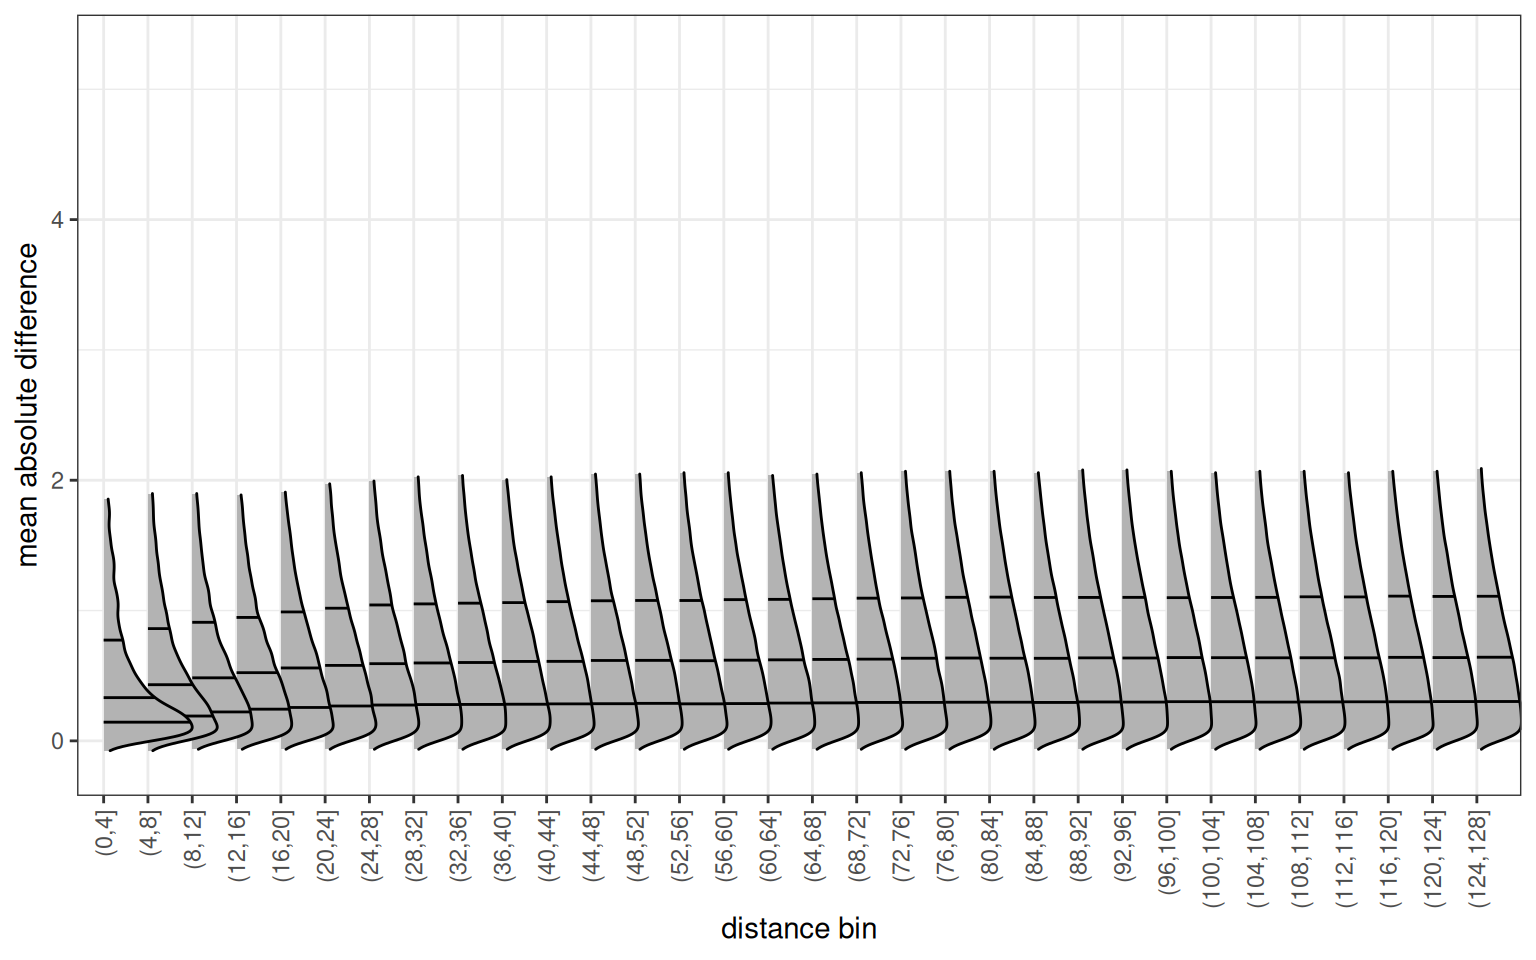
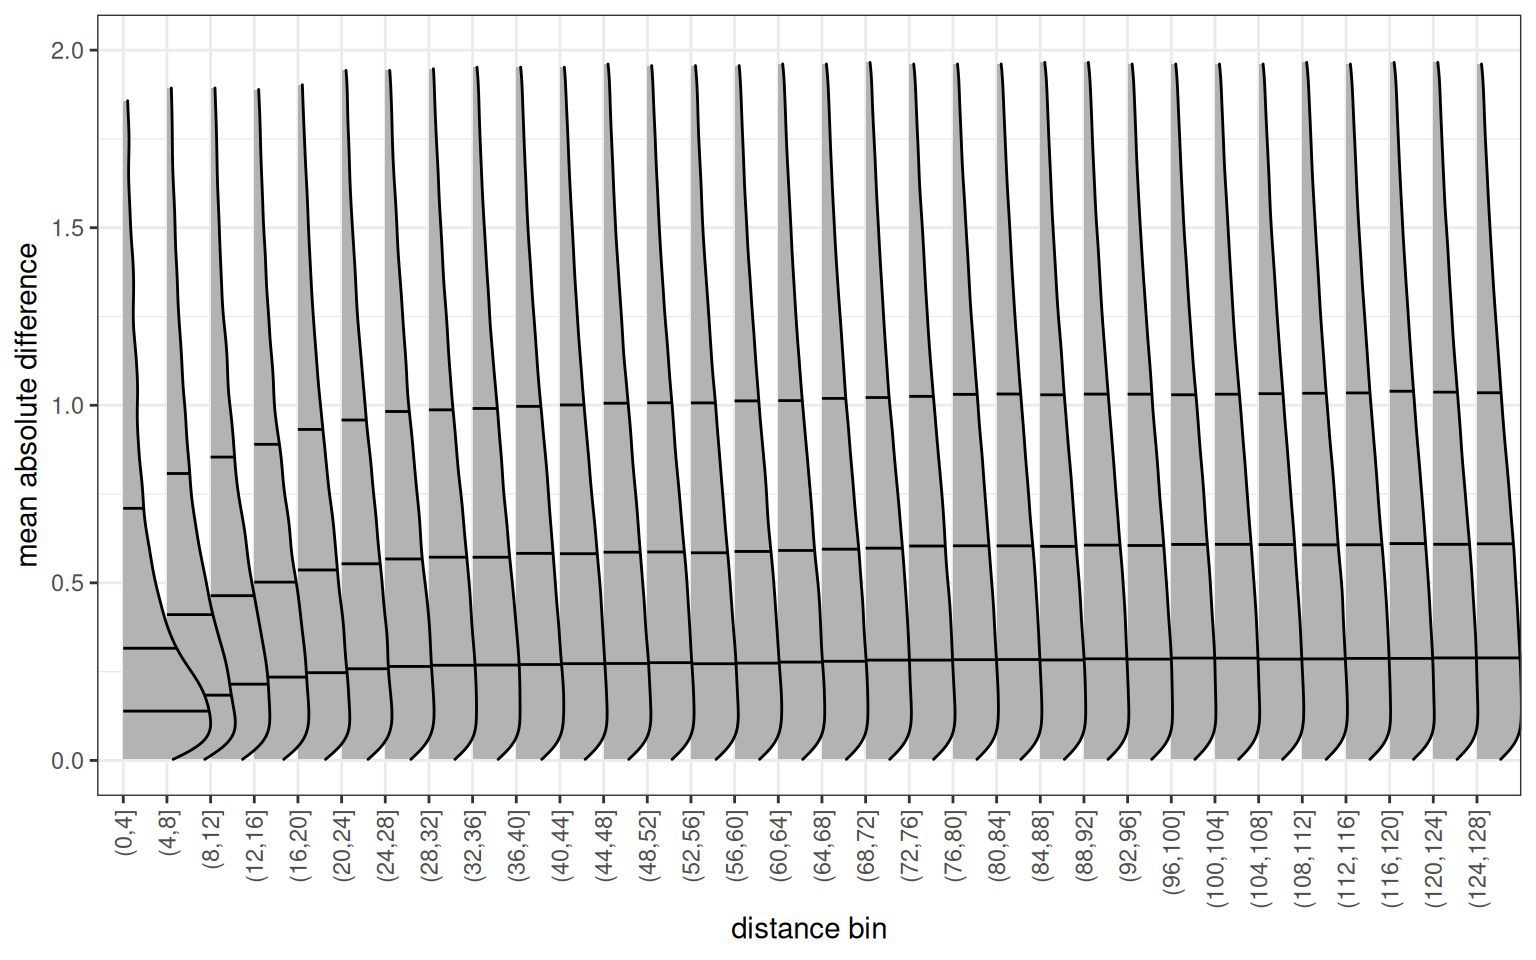
variograms: quarto->md corrections*
- equations required double backslash
- section anchors require a newline

diff --git a/content/tutorials/spatial_variograms/index.md b/content/tutorials/spatial_variograms/index.md
@@ -181,7 +181,9 @@ I mostly skip step 1 (**parameter choice**) from the list above, because it is a
 Ensure that your data is accurate, [exploratory data analysis](https://r4ds.had.co.nz/exploratory-data-analysis.html), evaluation and feedback with meetings and stakeholders - these sorts of things.
 The parameter of interest does not have to be a raw measurement, but can be the end of a long data analysis and modeling pipeline (more on this in <a href="#sec-detrending" class="quarto-xref">Section 3.1</a>).
 
-## <a href="sec-crossdifference"></a> Cross-Difference
+<a href="sec-crossdifference"></a>
+
+## Cross-Difference
 
 The following one-line functions are a major game-changer for large data sets, in particular the `self_difference()`.
 Their purpose is to compute the difference of all elements of one vector to each other, in matrix form.
@@ -212,7 +214,9 @@ lower_triangle <- function (mat) mat[lower.tri(mat)]
 This was just an opportunistic excourse to step 2 **cross calculation** from the roadmap.
 In fact, we are not yet finished preparing our test data set (for which these functions are useful).
 
-## <a href="sec-smoothing"></a> Simple Smoothing
+<a href="sec-smoothing"></a>
+
+## Simple Smoothing
 
 Just so that we can optionally incorporate **some Tobler spirit**: a smoother.
 2D smoothing, or "convolution with a 2D Gaussian", as the pro's call it, is what creates relation among adjacent points.
@@ -266,7 +270,7 @@ alt="Figure 2: The data, smoothed with a 2D Gaussian kernel. The edges are dark
 Nice and smooth.
 Feel free to draw a sunset by adjusting `a` and removing the groups.
 
-Note that I chose `s` here as a variable name for the smoothed `z`, which should not be confused with the \(s\) often used elsewhere to descripe the position vector of locations.
+Note that I chose `s` here as a variable name for the smoothed `z`, which should not be confused with the \\(s\\) often used elsewhere to descripe the position vector of locations.
 
 {{% callout note %}}
 
@@ -276,9 +280,13 @@ As will become clear in the end, the **assumption of Gaussian spatial interdepen
 
 {{% /callout %}}
 
-# <a href="sec-variograms"></a> Variograms
+<a href="sec-variograms"></a>
 
-## <a href="sec-detrending"></a> Debatable "De-Trending"
+# Variograms
+
+<a href="sec-detrending"></a>
+
+## Debatable "De-Trending"
 
 For good reasons, which I hope to make clear below, variogram functions such as `gstat::variogram()` provide the option of de-trending the data.
 This is demonstrated in the [examples documented with the function](https://www.rdocumentation.org/packages/gstat/versions/2.1-2/topics/variogram); one available parameter (`trend.beta`) provides the option of incorporating pre-calculated spatial regressions.
@@ -335,7 +343,9 @@ At any rate, I would recommend to **store the detrended linear effects for later
 
 {{% /callout %}}
 
-## <a href="sec-binning"></a> Beautiful Binning
+<a href="sec-binning"></a>
+
+## Beautiful Binning
 
 By now, we have prepared several variants of our simulated outcome variables (`z` -\> `s` -\> `d`), which is more than enough do demonstrate step 1.
 The next obvious step is to **cross-calculate distances and differences**, and that is quickly done with the base-R machinery.
@@ -378,9 +388,13 @@ dist_diff %>%
     quantile_lines = TRUE, quantiles = 4,
     scale = 2.0, bandwidth = 0.05) +
   labs(x = "mean absolute difference", y = "distance bin") +
+  xlim(0, 2) +
   theme_bw() + coord_flip() +
-  theme(axis.text.x = element_text(angle = 90, vjust = 0.5, hjust=1))
+  theme(axis.text.x = element_text(angle = 90, vjust = 0.5, hjust=1)) 
 ```
+
+    Warning: Removed 265464 rows containing non-finite outside the scale range
+    (`stat_density_ridges()`).
 
 <img
 src="spatial_variograms.markdown_strict_files/figure-markdown_strict/fig-difference-distance-ridges-1.png"
@@ -467,17 +481,17 @@ The answer lies somewhere between (among?) the very exact maths hidden in the li
 
 And, anyways, if the assumption holds, we get a neat formula for semivariance ("Method-of-Moments Estimator" according to Cressie 1993, 69, eqn. 2.4.2), which goes back to Matheron (1962).
 
-We define the **semivariance** \(\gamma\):
+We define the **semivariance** \\(\gamma\\):
 
-\(\gamma = \frac{1}{2N} \sum\limits_{N} \left(z_j - z_i\right)^2\)
+\\(\gamma = \frac{1}{2N} \sum\limits_{N} \left(z_j - z_i\right)^2\\)
 
-Herein, \(N\) is the number of observation pairs \(\{i, j\}\); those are usually grouped (binned) so to quantify variances at different distances \(\gamma\left(h\right)\) (with \(h\) the "lag vector magnitude", i.e. distance group).
+Herein, \\(N\\) is the number of observation pairs \\(\{i, j\}\\); those are usually grouped (binned) so to quantify variances at different distances \\(\gamma\left(h\right)\\) (with \\(h\\) the "lag vector magnitude", i.e. distance group).
 
-Semivariance \(\gamma\) should better be remembered as **half mean square difference** (HMSD).
+Semivariance \\(\gamma\\) should better be remembered as **half mean square difference** (HMSD).
 
 There is at least one more option worth attempting: instead of the square-form semivariance above, just calculate **mean absolute difference** (MAD) as follows.
 
-\[ \langle dw\rangle = \frac{1}{N} \sum\limits_{i,j} \left| z_j - z_i\right| \]
+\\[ \langle dw\rangle = \frac{1}{N} \sum\limits_{i,j} \left| z_j - z_i\right| \\]
 
 We will calculate all three parameters for demonstration:
 variance, semivariance, and mean absolute difference.
@@ -565,7 +579,9 @@ A plot of the bin-wise semivariance (or other difference measures) against dista
 Good to have.
 Now let's get started.
 
-# <a href="sec-model-regression"></a> Model Regression
+<a href="sec-model-regression"></a>
+
+# Model Regression
 
 ## Fitting Functions
 
@@ -683,11 +699,13 @@ Observations:
 
 -   The regression fits the data more or less well, quantified by the mean square error (`mse`).
 -   Optimizer did converge (`convergence 0`, [see "convergence" here](https://stat.ethz.ch/R-manual/R-devel/library/stats/html/optim.html)), which should not be overrated (the regression might still be irrelevant).
--   Parameters can be measured, in this case intercept (\(0.43\)) and slope (\(4\times 10^{-4}\)).
+-   Parameters can be measured, in this case intercept (\\(0.43\\)) and slope (\\(4\times 10^{-4}\\)).
 
 We can do better, of course.
 
-## <a href="sec-gauss"></a> Beloved Bellcurve
+<a href="sec-gauss"></a>
+
+## Beloved Bellcurve
 
 Quite a popular choice is the **Gaussian**.
 There is a suitable "parametric extension" [on wikipedia](https://en.wikipedia.org/wiki/Gaussian_function).
@@ -908,38 +926,40 @@ fit_variogram <- function(
 }
 ```
 
-## <a href="sec-matern"></a> Matérn Machinery
+<a href="sec-matern"></a>
+
+## Matérn Machinery
 
 There is at least one step further from Gauss.
 Let's mimic what the pro's do!
 
 What follows is an exact quote [(source)](https://pbs-assess.github.io/sdmTMB/articles/model-description.html#gaussian-random-fields).
-Note that the \(s\) here stants for a position vector, and *not* the smoothed `z`.
+Note that the \\(s\\) here stants for a position vector, and *not* the smoothed `z`.
 
 `<quote>`
 
-The Matérn defines the covariance \(\Phi\left( s_j, s_k\right)\) between spatial locations \(s_j\) and \(s_k\) as
+The Matérn defines the covariance \\(\Phi\left( s_j, s_k\right)\\) between spatial locations \\(s_j\\) and \\(s_k\\) as
 
-\[\Phi\left( s_j, s_k\right) = \tau^2 / \Gamma\left(\nu\right) 2^{\nu -1} \left(\kappa d_{jk}\right)^\nu K_\nu\left(\kappa d_{jk}\right)\]
+\\[\Phi\left( s_j, s_k\right) = \tau^2 / \Gamma\left(\nu\right) 2^{\nu -1} \left(\kappa d_{jk}\right)^\nu K_\nu\left(\kappa d_{jk}\right)\\]
 <!-- Φ(sj,sk)=τ2/Γ(ν)2ν−1(κdjk)νKν(κdjk),-->
 
-where \(\tau^2\) controls the spatial variance,
-\(\nu\) controls the smoothness,
-\(\Gamma\) represents the Gamma function,
-\(d_{jk}\) represents the distance between locations \(s_j\) and \(s_k\),
-\(K_\nu\) represents the modified Bessel function of the second kind,
-and \(\kappa\) represents the decorrelation rate.
-The parameter \(\nu\) is set to \(1\) to take advantage of the Stochastic Partial Differential Equation (SPDE) approximation to the GRF
+where \\(\tau^2\\) controls the spatial variance,
+\\(\nu\\) controls the smoothness,
+\\(\Gamma\\) represents the Gamma function,
+\\(d_{jk}\\) represents the distance between locations \\(s_j\\) and \\(s_k\\),
+\\(K_\nu\\) represents the modified Bessel function of the second kind,
+and \\(\kappa\\) represents the decorrelation rate.
+The parameter \\(\nu\\) is set to \\(1\\) to take advantage of the Stochastic Partial Differential Equation (SPDE) approximation to the GRF
 to greatly increase computational efficiency (Lindgren, Rue, and Lindström 2011).
-Internally, the parameters \(\kappa\) and \(\tau\) are converted to range and marginal standard deviation \(\sigma\) as
-\[range=\frac{8}{\kappa}\]
+Internally, the parameters \\(\kappa\\) and \\(\tau\\) are converted to range and marginal standard deviation \\(\sigma\\) as
+\\[range=\frac{8}{\kappa}\\]
 and
-\[\sigma=\left(4\pi e^{2log(\tau )+2log(\kappa)}\right)^{-\frac{1}{2}}\]
+\\[\sigma=\left(4\pi e^{2log(\tau )+2log(\kappa)}\right)^{-\frac{1}{2}}\\]
 
 `</quote>`
 
 This is just to confuse you.
-I found the \(\tau\)/\(\kappa\)/\(\sigma\)-parametrization to be less intuitive and not fitting our geoscience jargon, but the Bessel and Gamma were appropriate; so here a slightly modified parametrization.
+I found the \\(\tau\\)/\\(\kappa\\)/\\(\sigma\\)-parametrization to be less intuitive and not fitting our geoscience jargon, but the Bessel and Gamma were appropriate; so here a slightly modified parametrization.
 
 ``` r
 matern_function <- function(d, parameters) {
@@ -961,7 +981,7 @@ matern_function <- function(d, parameters) {
 
 I initially had trouble fitting this function, because I simplified (leaving out `nugget` and `nu`); the version above is quite flexible to fit our variogram.
 Note that the function is not defined at zero, which is why I filter `NA`.
-Sigma (\(\sigma\)) is related to the turning point of the Matérn function.
+Sigma (\\(\sigma\\)) is related to the turning point of the Matérn function.
 The Matérn implementation does not allow decreasing or oscillating semivariance (sometimes seen in real data), but on the other hand decreasing semivariance would griefly violate Tobler's observation.
 
 Any regression function demands a specific plot function:
@@ -1040,7 +1060,7 @@ alt="Figure 11: Variogram of all the data, with a Matérn fit. Warning: the y-a
 <figcaption>Variogram of all the data, with a Matérn fit. Warning: the y-axis display range is limited.</figcaption><br>
 
 Note the sensible choice of starting values and boundaries.
-Again, I indicated the \(\sigma\) range.
+Again, I indicated the \\(\sigma\\) range.
 
 See the considerable non-zero nugget?
 Let us explore where it comes from!
@@ -1109,13 +1129,13 @@ alt="Figure 13: Variogram of the sub-data in the b == 1 category." />
 
 `<figcaption>Variogram of the sub-data in the`b == 1category.</figcaption><br>
 
-The \(\sigma\)-range of the full data set with two different categories mixed is \(16.8\).
-If we only include one of the categories, making the data points more similar, ranges are \(17.4\) and \(13.9\).
+The \\(\sigma\\)-range of the full data set with two different categories mixed is \\(16.8\\).
+If we only include one of the categories, making the data points more similar, ranges are \\(17.4\\) and \\(13.9\\).
 Longer range would mean that distant points are more similar.
 
 The variance itself is also determined by the magnitude of values:
 on the `b==1` subset, we added to the measured parameter.
-Consequently, we see the `scale = sill-nugget` increase from \(0.13\) to \(0.19\).
+Consequently, we see the `scale = sill-nugget` increase from \\(0.13\\) to \\(0.19\\).
 
 If you noticed that especially the `b==0` data does not entirely fit the model, you are right: because of the "wrapped smoothing, then detrending" simulation procedure, the margin prohibits perfect detrending.
 Which brings me to a revision of these effects.
@@ -1124,7 +1144,9 @@ Which brings me to a revision of these effects.
 
 *(How does semivariance change without de-trending and un-smoothed, and why?)*
 
-## <a href="sec-nodetrend"></a> De-activated De-trending
+<a href="sec-nodetrend"></a>
+
+## De-activated De-trending
 
 Luckily, we computer-engineerd in a `skip_detrend` flag above.
 
@@ -1377,11 +1399,11 @@ knitr::kable(bootstrap_quantiles, digits = 1)
 
 | scale | sigma | nugget |    nu | rmse | quantile |
 |------:|------:|-------:|------:|-----:|---------:|
-|   0.0 |   1.6 |    0.0 |   0.0 |  2.0 |        2 |
-|   0.2 |  11.5 |    0.2 |   0.6 |  3.8 |       50 |
-|   0.4 |  32.3 |    0.3 | 100.0 |  9.0 |       98 |
+|   0.0 |   1.7 |    0.0 |   0.1 |  2.0 |        2 |
+|   0.2 |  11.4 |    0.2 |   0.6 |  3.8 |       50 |
+|   0.4 |  30.8 |    0.3 | 100.0 |  8.6 |       98 |
 
-For the majority of bootstraps, the `sigma`-range of spatial coupling falls within the \[1.6, 32.3\] interval.
+For the majority of bootstraps, the `sigma`-range of spatial coupling falls within the \[1.7, 30.8\] interval.
 
 {{% callout note %}}
 
